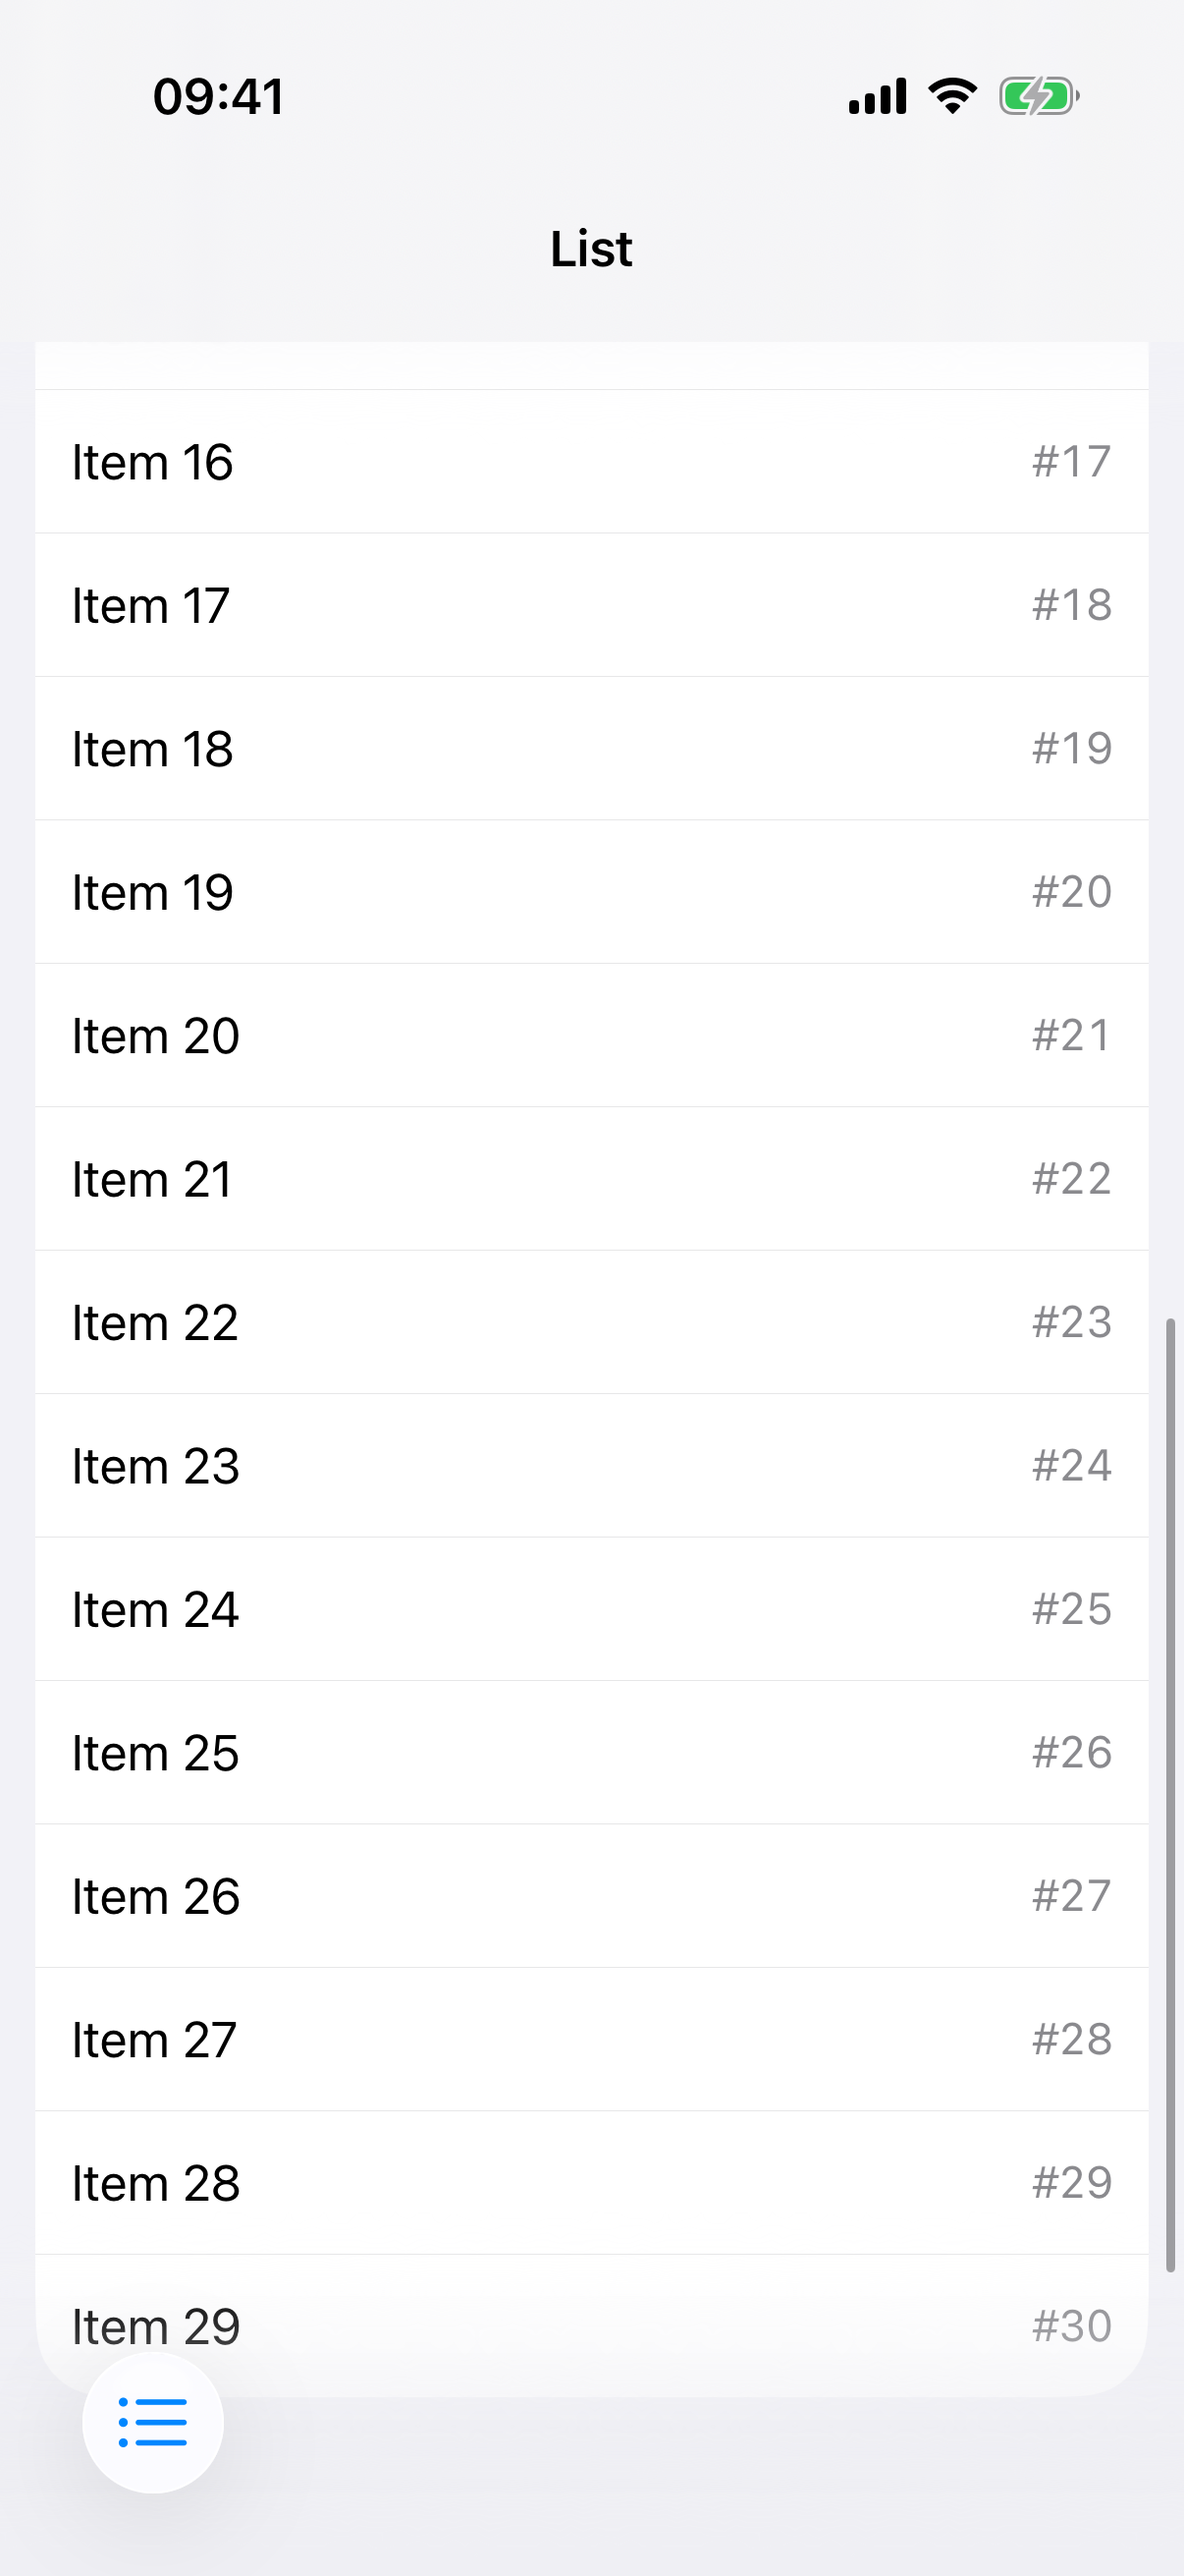
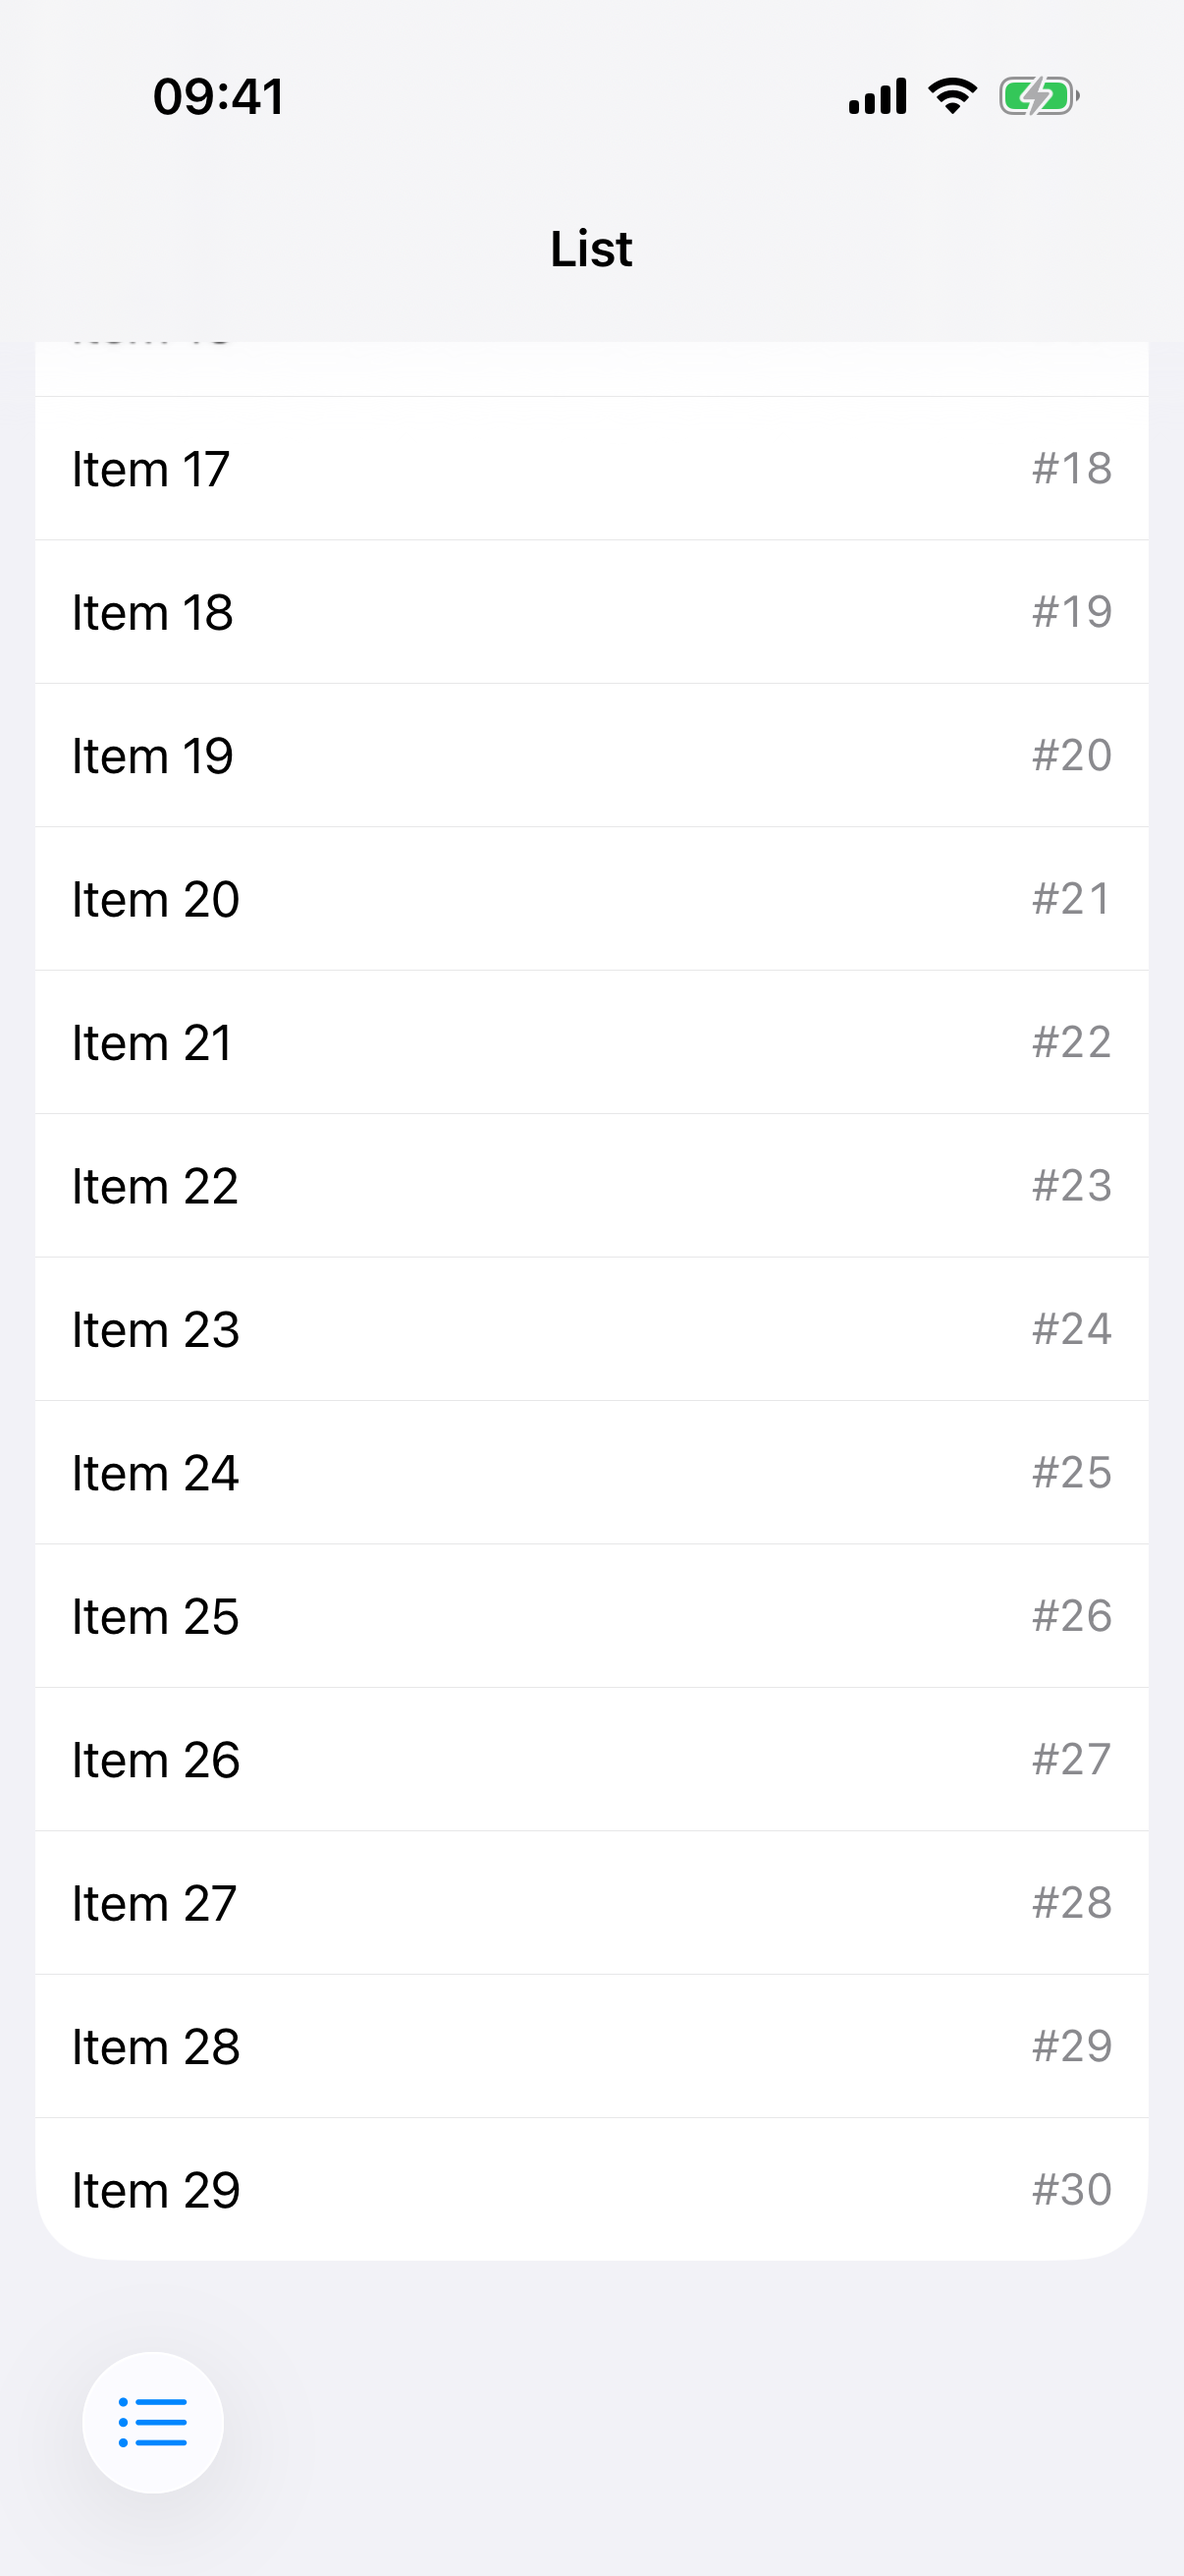
fix: scroll test

diff --git a/packages/mobile-test/src/element/element.ts b/packages/mobile-test/src/element/element.ts
@@ -4,11 +4,15 @@ import { toFrame, frameCenter, visibleFramePercentage, type Frame } from './type
 import { findElement, findAllElements } from './match.js'
 import { getDriverClient, getActiveBundleId } from '../driver/context.js'
 import { getActionTimeout } from '../config-context.js'
+import { compareBuffers } from '../screenshot/compare.js'
+import { cropToFrame } from '../screenshot/crop.js'
 import { log } from '../logger.js'
 
 const POLL_INTERVAL = 200
 const MIN_VISIBLE_PERCENTAGE = 0.1
 const VIEWPORT_GESTURE_MARGIN = 24
+const END_OF_SCROLL_DIFF_THRESHOLD = 0.5
+const END_OF_SCROLL_STREAK_REQUIRED = 2
 
 export class Element {
   private index?: number
@@ -144,6 +148,80 @@ export class Element {
     })
   }
 
+  /**
+   * Scroll to the very end of the scrollable element.
+   * Keeps swiping until the content stops moving (detected via screenshot comparison).
+   */
+  async scrollToEnd(direction: 'up' | 'down' | 'left' | 'right' = 'down', maxScrolls = 50): Promise<void> {
+    return log.time(`scrollToEnd(${direction})`, async () => {
+      const swipeDir = direction === 'down' ? 'up' : direction === 'up' ? 'down' : direction === 'right' ? 'left' : 'right'
+      const client = getDriverClient()
+      let atEndStreak = 0
+      const handle = await this.resolve()
+      const scrollFrame = toFrame(handle.frame)
+      const { scale } = await client.deviceInfo()
+
+      // Swipe once, wait for it to settle, capture as our reference
+      await this.swipe(swipeDir)
+      let previous = await this.waitForSettled(client, 2_000, scrollFrame, scale)
+
+      for (let i = 1; i < maxScrolls; i++) {
+        await this.swipe(swipeDir)
+        const current = await this.waitForSettled(client, 2_000, scrollFrame, scale)
+        // Compare consecutive post-swipe settled states
+        const diff = await compareBuffers(previous, current)
+        log.debug(`scrollToEnd iteration ${i}: diff=${diff.toFixed(4)}%`)
+        if (diff <= END_OF_SCROLL_DIFF_THRESHOLD) {
+          atEndStreak += 1
+          // Require multiple low-diff swipes to avoid stopping early near the end.
+          if (atEndStreak >= END_OF_SCROLL_STREAK_REQUIRED) {
+            await this.waitForSettled(client, 2_000, scrollFrame, scale)
+            return
+          }
+        } else {
+          atEndStreak = 0
+        }
+        previous = current
+      }
+
+      await this.waitForSettled(client, 2_000, scrollFrame, scale)
+    })
+  }
+
+  /**
+   * Wait for the screen to stop changing (animation settled).
+   * Returns the final stable screenshot.
+   */
+  private async waitForSettled(
+    client: ReturnType<typeof getDriverClient>,
+    timeout = 2_000,
+    frame?: Frame,
+    scale?: number,
+  ): Promise<Buffer> {
+    const start = Date.now()
+    let previous = await this.captureForMotionDiff(client, frame, scale)
+    while (Date.now() - start < timeout) {
+      await new Promise(r => setTimeout(r, 200))
+      const current = await this.captureForMotionDiff(client, frame, scale)
+      const diff = await compareBuffers(previous, current)
+      if (diff <= 0.01) return current
+      previous = current
+    }
+    return previous
+  }
+
+  private async captureForMotionDiff(
+    client: ReturnType<typeof getDriverClient>,
+    frame?: Frame,
+    scale?: number,
+  ): Promise<Buffer> {
+    const screenshot = await client.screenshot()
+    if (frame && scale) {
+      return cropToFrame(screenshot, frame, scale)
+    }
+    return screenshot
+  }
+
   async swipe(direction: 'up' | 'down' | 'left' | 'right', _distance = 200): Promise<void> {
     const el = await this.resolve()
     const frame = toFrame(el.frame)
@@ -153,10 +231,10 @@ export class Element {
     const centerY = gestureFrame.y + gestureFrame.height * 0.5
 
     // Keep gestures inside the visible on-screen portion of the element.
-    const topY = gestureFrame.y + gestureFrame.height * 0.3
-    const bottomY = gestureFrame.y + gestureFrame.height * 0.7
-    const leftX = gestureFrame.x + gestureFrame.width * 0.3
-    const rightX = gestureFrame.x + gestureFrame.width * 0.7
+    const topY = gestureFrame.y + gestureFrame.height * 0.15
+    const bottomY = gestureFrame.y + gestureFrame.height * 0.85
+    const leftX = gestureFrame.x + gestureFrame.width * 0.15
+    const rightX = gestureFrame.x + gestureFrame.width * 0.85
 
     const points = {
       up: { startX: centerX, startY: bottomY, endX: centerX, endY: topY },
@@ -175,9 +253,17 @@ export class Element {
   }
 
   async isVisible(): Promise<boolean> {
-    const el = await this.tryResolve()
-    if (!el) return false
-    return this.isHandleVisible(el)
+    const handles = await this.tryResolveAll()
+    if (handles.length === 0) return false
+
+    const viewport = await this.getViewport()
+    for (const handle of handles) {
+      const percentage = visibleFramePercentage(toFrame(handle.frame), viewport)
+      if (percentage >= MIN_VISIBLE_PERCENTAGE) {
+        return true
+      }
+    }
+    return false
   }
 
   async getText(): Promise<string | null> {
@@ -189,13 +275,26 @@ export class Element {
     return (await this.tryResolve()) !== null
   }
 
-  private async isHandleVisible(handle: ElementHandle): Promise<boolean> {
-    const viewport = await this.getViewport()
-    return visibleFramePercentage(toFrame(handle.frame), viewport) >= MIN_VISIBLE_PERCENTAGE
+  private async tryResolveAll(): Promise<ElementHandle[]> {
+    const client = getDriverClient()
+    const bundleId = getActiveBundleId()
+    const hierarchy = await client.viewHierarchy(bundleId ?? undefined)
+    return findAllElements(hierarchy, this.locator)
   }
 
   private async getViewport(): Promise<Frame> {
-    const info = await getDriverClient().deviceInfo()
+    const client = getDriverClient()
+    const bundleId = getActiveBundleId()
+
+    if (bundleId) {
+      const hierarchy = await client.viewHierarchy(bundleId)
+      const frame = toFrame(hierarchy.frame)
+      if (frame.width > 0 && frame.height > 0) {
+        return frame
+      }
+    }
+
+    const info = await client.deviceInfo()
     return {
       x: 0,
       y: 0,

diff --git a/packages/example-app/e2e/list.test.ts b/packages/example-app/e2e/list.test.ts
@@ -26,18 +26,12 @@ describe("List", () => {
     // Access first item by id and atIndex
     await expect(element(by.id("list-item-0")).atIndex(0)).toBeVisible();
 
-    // Scroll into the list and then take one more deterministic swipe so the
-    // final screenshot is anchored to a stable scrolled state.
-    await element(by.id("list-scroll")).scrollTo(
-      element(by.id("list-item-18")),
-      "down",
-    );
-    await expect(element(by.id("list-item-18"))).toBeVisible();
-    await expect(element(by.label("Item 18"))).toBeVisible();
-    await element(by.id("list-scroll")).swipe("up");
-    await expect(element(by.id("list-item-22"))).toBeVisible();
+    // Scroll all the way to the bottom for a deterministic screenshot
+    await element(by.id("list-scroll")).scrollToEnd("down");
+    await device.waitForAnimationToEnd();
+    await expect(element(by.label("Item 29"))).toBeVisible();
 
     // Screenshot of the scrolled state
-    await expect(device).toMatchScreenshot("list-scrolled");
+    await expect(device).toMatchScreenshot("list-scrolled-to-bottom");
   });
 });

diff --git a/packages/mobile-test/src/expect/matchers.ts b/packages/mobile-test/src/expect/matchers.ts
@@ -22,12 +22,16 @@ export function registerMatchers(): void {
           await new Promise(r => setTimeout(r, POLL_INTERVAL))
         }
 
+        const pass = isNot ? !visible : visible
+
         return {
-          pass: visible,
+          pass,
           message: () =>
-            visible
-              ? `Expected element ${received.locator} not to be visible`
-              : `Expected element ${received.locator} to be visible, but it was not found after ${timeout}ms`,
+            pass
+              ? `Expected element ${received.locator} ${isNot ? '' : 'not '}to be visible`
+              : isNot
+                ? `Expected element ${received.locator} not to be visible, but it was visible`
+                : `Expected element ${received.locator} to be visible, but it was not visible after ${timeout}ms`,
         }
       })
     },

diff --git a/AGENTS.md b/AGENTS.md
@@ -1,8 +1,8 @@
-## IMPORTANT: Always Build After Changes
+## IMPORTANT: Build When Changes Require It
 
-Never tell the user to build. After making source changes, ALWAYS run the build yourself before stopping. The user should never have to build manually. Just do it.
+Never tell the user to build. For changes that affect built artifacts or runtime behavior, run the relevant build yourself before stopping. The user should never have to build manually.
 
-Always check your own changes by running them and verifying the results before ending. Only end when the job is done.
+For docs-only or non-build-impacting changes, a build is not required. Always verify your own changes before ending.
 
 ---
 
@@ -27,22 +27,20 @@ Store useful findings in research/ so we can refer back when building.
 
 Follow the plan for the current phase in plan/. Use TODO.md in the mobile-test package to track progress on the current milestone. When done, move it to completed-steps/<phase>/.
 
-## Requirements
+## Simulator One-Off Interactions
 
-- Typescript api
-- Written with typescript, uses swift/kotlin where required for native integration
-- doesn't require custom build of the app
-- doesn't require changing app code other than a11y or test ids
-- focus on screenshot testing workflow
-- supports iOS and Android
-- relies on native tooling, provides a thin wrapper around it
-- provides an api similar to existing ts testing tools like playwright/vitest to make it familiar
-- react native first, but can be used with native apps as well
+Use `agent-device` for one-off simulator interactions and app-state investigation.
 
-## Context: Problems with Maestro We Want to Solve
+Start with `agent-device --help` for full command usage.
 
-- not typescript api, requires learning a new language and tool
-- slow
-- way too many layers of abstraction and built with java which is unfamiliar to our target users
-- doesnt have a built in way to compare screenshots
-- not extensible, hard for users to extend and customize for their needs
+Useful commands:
+- `agent-device open [appOrUrl]`
+- `agent-device snapshot -i`
+- `agent-device appstate`
+- `agent-device click <x y|@ref|selector>`
+- `agent-device type <text>`
+- `agent-device screenshot [path]`
+
+## Shared Project Requirements & Context
+
+See `PROJECT_REQUIREMENTS_AND_CONTEXT.md`.

diff --git a/CLAUDE.md b/CLAUDE.md
@@ -1,8 +1,8 @@
-## IMPORTANT: Always Build After Changes
+## IMPORTANT: Build When Changes Require It
 
-Never tell the user to build. After making source changes, ALWAYS run the build yourself before stopping. The user should never have to build manually. Just do it.
+Never tell the user to build. For changes that affect built artifacts or runtime behavior, run the relevant build yourself before stopping. The user should never have to build manually.
 
-Always check your own changes by running them and verifying the results before ending. Only end when the job is done.
+For docs-only or non-build-impacting changes, a build is not required. Always verify your own changes before ending.
 
 ---
 
@@ -27,22 +27,20 @@ Store useful findings in research/ so we can refer back when building.
 
 Follow the plan for the current phase in plan/. Use TODO.md in the mobile-test package to track progress on the current milestone. When done, move it to completed-steps/<phase>/.
 
-## Requirements
+## Simulator One-Off Interactions
 
-- Typescript api
-- Written with typescript, uses swift/kotlin where required for native integration
-- doesn't require custom build of the app
-- doesn't require changing app code other than a11y or test ids
-- focus on screenshot testing workflow
-- supports iOS and Android
-- relies on native tooling, provides a thin wrapper around it
-- provides an api similar to existing ts testing tools like playwright/vitest to make it familiar
-- react native first, but can be used with native apps as well
+Use `agent-device` for one-off simulator interactions and app-state investigation.
 
-## Context: Problems with Maestro We Want to Solve
+Start with `agent-device --help` for full command usage.
 
-- not typescript api, requires learning a new language and tool
-- slow
-- way too many layers of abstraction and built with java which is unfamiliar to our target users
-- doesnt have a built in way to compare screenshots
-- not extensible, hard for users to extend and customize for their needs
+Useful commands:
+- `agent-device open [appOrUrl]`
+- `agent-device snapshot -i`
+- `agent-device appstate`
+- `agent-device click <x y|@ref|selector>`
+- `agent-device type <text>`
+- `agent-device screenshot [path]`
+
+## Shared Project Requirements & Context
+
+See `PROJECT_REQUIREMENTS_AND_CONTEXT.md`.

diff --git a/packages/mobile-test/AGENTS.md b/packages/mobile-test/AGENTS.md
@@ -19,7 +19,22 @@ Key references:
 - `bun run build` (or `npx tsup`) — build to dist/
 - `bun run test` — unit tests
 - From example-app: `bun run test:e2e` — e2e tests against a booted simulator
-- **Important**: after source changes, rebuild before running example-app tests (they load from dist/)
+- **Important**: run builds when changes affect dist/runtime behavior or tests that consume built output; docs-only changes do not require a build
+- For example-app e2e runs, rebuild `mobile-test` first when the change impacts `dist/` artifacts
+
+## Simulator One-Off Interactions
+
+Use `agent-device` for one-off simulator interactions and app-state investigation instead of adding temporary test code.
+
+Start with `agent-device --help` for command details.
+
+Useful commands:
+- `agent-device open [appOrUrl]`
+- `agent-device snapshot -i`
+- `agent-device appstate`
+- `agent-device find <locator|text> <action> [value]`
+- `agent-device click <x y|@ref|selector>`
+- `agent-device screenshot [path]`
 
 ## Conventions
 

diff --git a/packages/mobile-test/CLAUDE.md b/packages/mobile-test/CLAUDE.md
@@ -19,7 +19,22 @@ Key references:
 - `bun run build` (or `npx tsup`) — build to dist/
 - `bun run test` — unit tests
 - From example-app: `bun run test:e2e` — e2e tests against a booted simulator
-- **Important**: after source changes, rebuild before running example-app tests (they load from dist/)
+- **Important**: run builds when changes affect dist/runtime behavior or tests that consume built output; docs-only changes do not require a build
+- For example-app e2e runs, rebuild `mobile-test` first when the change impacts `dist/` artifacts
+
+## Simulator One-Off Interactions
+
+Use `agent-device` for one-off simulator interactions and app-state investigation instead of adding temporary test code.
+
+Start with `agent-device --help` for command details.
+
+Useful commands:
+- `agent-device open [appOrUrl]`
+- `agent-device snapshot -i`
+- `agent-device appstate`
+- `agent-device find <locator|text> <action> [value]`
+- `agent-device click <x y|@ref|selector>`
+- `agent-device screenshot [path]`
 
 ## Conventions
 

diff --git a/PROJECT_REQUIREMENTS_AND_CONTEXT.md b/PROJECT_REQUIREMENTS_AND_CONTEXT.md
@@ -1,0 +1,19 @@
+## Requirements
+
+- Typescript api
+- Written with typescript, uses swift/kotlin where required for native integration
+- doesn't require custom build of the app
+- doesn't require changing app code other than a11y or test ids
+- focus on screenshot testing workflow
+- supports iOS and Android
+- relies on native tooling, provides a thin wrapper around it
+- provides an api similar to existing ts testing tools like playwright/vitest to make it familiar
+- react native first, but can be used with native apps as well
+
+## Context: Problems with Maestro We Want to Solve
+
+- not typescript api, requires learning a new language and tool
+- slow
+- way too many layers of abstraction and built with java which is unfamiliar to our target users
+- doesnt have a built in way to compare screenshots
+- not extensible, hard for users to extend and customize for their needs
